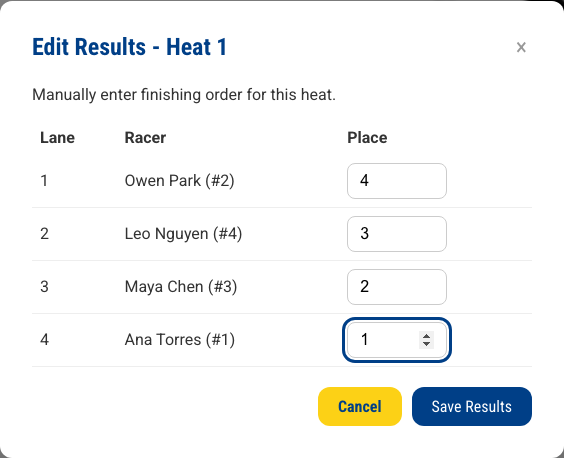
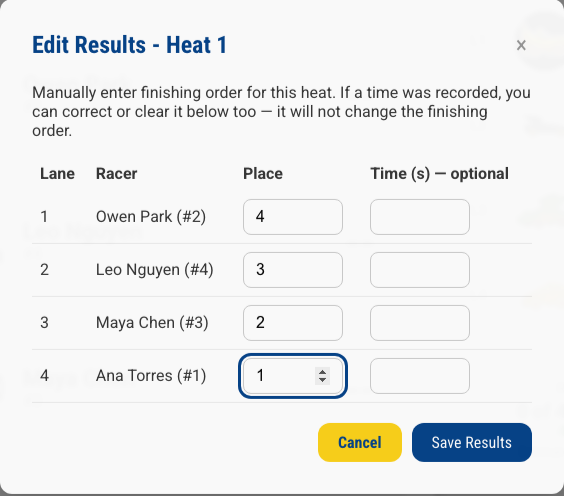
Let a Points race's Override/Edit modal correct a stored time too
Since #490, the Override/Edit modal picked its column from the race's
scoring strategy: POINTS got a Place column only. That is right for a
points race with no timer, but a points race on a track that does have
one still has a timer-recorded time behind every result — and nothing
in the app could reach it once the column disappeared. That time still
feeds the track record board, the record-break banner, the Stats page
and the lane cards, none of which asks how the race is scored, so a
spurious sensor misfire could become a standing track record with no
control able to fix it.

Show both columns instead, and let the strategy decide which is
required rather than which exists. A POINTS heat now shows Place (the
one that has to be filled in, unchanged) and an optional Time field
beside it for correcting or clearing a stored time.
`shouldDerivePlaces` already kept `assignPlaces` from ever touching a
POINTS heat's places, and that rule needed no change: it is what lets
the Time field sit there without a save turning it back into places.
Clearing Time to blank still stores null, which `services/records.py`
already excludes from the record board (`time_seconds > 0`), so that
is the correction path for a bad record.

Updated the manual-entry doc screenshot and its caption, and the
Playwright spec that produces it — it used to fill every spinbutton in
the modal (previously just the four Place ones), which now needs to
target the Place column specifically so Time stays blank as the
[…]

diff --git a/frontend/src/features/racing/components/RaceExecution.tsx b/frontend/src/features/racing/components/RaceExecution.tsx
@@ -907,16 +907,26 @@ export const RaceExecution: React.FC<RaceExecutionProps> = ({
                 title={`Edit Results - Heat ${activeExecutionHeat.globalHeatNumber ?? activeExecutionHeat.heatNumber}`}
             >
                 <div className="form-group">
-                    {/* Which column this shows follows the race's scoring
+                    {/* Which column is *required* follows the race's scoring
                         strategy (#490) rather than being a fourth thing for
                         the operator to decide: `TIMED` averages times, so
                         that is what gets typed in and turned into places on
-                        save (see `shouldDerivePlaces` in `lanes.ts`); `POINTS`
-                        sums places, so the finishing order is what somebody
-                        at the line actually has to report by hand. */}
+                        save (see `shouldDerivePlaces` in `lanes.ts`) — no
+                        Place column, since nothing is ever typed into one.
+                        `POINTS` sums places, so the finishing order is what
+                        somebody at the line actually has to report by hand —
+                        that stays the primary column. But a `POINTS` race can
+                        still have a timer (#525): it records a time nothing
+                        else in the app can correct once this modal hides the
+                        column, and that time still feeds the track record
+                        board, the record-break banner and the Stats page
+                        regardless of how the race scores. So a `POINTS` heat
+                        shows Time too — optional, for fixing or clearing a
+                        stored or spurious one — while `shouldDerivePlaces`
+                        keeps it from ever overwriting the hand-typed places. */}
                     <p className="form-help">
                         {isPointsStrategy
-                            ? 'Manually enter finishing order for this heat.'
+                            ? 'Manually enter finishing order for this heat. If a time was recorded, you can correct or clear it below too — it will not change the finishing order.'
                             : 'Manually update times for this heat.'}
                     </p>
                     <table style={{ width: '100%', borderCollapse: 'collapse', marginTop: '10px' }}>
@@ -924,7 +934,10 @@ export const RaceExecution: React.FC<RaceExecutionProps> = ({
                             <tr>
                                 <th style={{ textAlign: 'left', padding: '8px' }}>Lane</th>
                                 <th style={{ textAlign: 'left', padding: '8px' }}>Racer</th>
-                                <th style={{ textAlign: 'left', padding: '8px' }}>{isPointsStrategy ? 'Place' : 'Time (s)'}</th>
+                                {isPointsStrategy && <th style={{ textAlign: 'left', padding: '8px' }}>Place</th>}
+                                <th style={{ textAlign: 'left', padding: '8px' }}>
+                                    {isPointsStrategy ? 'Time (s) — optional' : 'Time (s)'}
+                                </th>
                             </tr>
                         </thead>
                         <tbody>
@@ -932,8 +945,8 @@ export const RaceExecution: React.FC<RaceExecutionProps> = ({
                                 <tr key={r.lane} style={{ borderBottom: '1px solid var(--divider-color)' }}>
                                     <td style={{ padding: '8px' }}>{r.lane}</td>
                                     <td style={{ padding: '8px' }}>{getRacerName(r.racerId ?? (r.placeholderSlot ? -r.placeholderSlot : 0), slowestRoundIds?.has(activeExecutionHeat.roundId))}</td>
-                                    <td style={{ padding: '8px' }}>
-                                        {isPointsStrategy ? (
+                                    {isPointsStrategy && (
+                                        <td style={{ padding: '8px' }}>
                                             <input
                                                 type="number"
                                                 step="1"
@@ -943,17 +956,18 @@ export const RaceExecution: React.FC<RaceExecutionProps> = ({
                                                 className="form-control"
                                                 style={{ width: '100px' }}
                                             />
-                                        ) : (
-                                            <input
-                                                type="number"
-                                                step="0.0001"
-                                                min="0"
-                                                value={r.timeText}
-                                                onChange={(e) => handleResultChange(idx, 'time', e.target.value)}
-                                                className="form-control"
-                                                style={{ width: '100px' }}
-                                            />
-                                        )}
+                                        </td>
+                                    )}
+                                    <td style={{ padding: '8px' }}>
+                                        <input
+                                            type="number"
+                                            step="0.0001"
+                                            min="0"
+                                            value={r.timeText}
+                                            onChange={(e) => handleResultChange(idx, 'time', e.target.value)}
+                                            className="form-control"
+                                            style={{ width: '100px' }}
+                                        />
                                     </td>
                                 </tr>
                             ))}

diff --git a/frontend/src/features/racing/components/RaceExecution.test.tsx b/frontend/src/features/racing/components/RaceExecution.test.tsx
@@ -181,8 +181,8 @@ describe('RaceExecution', () => {
         });
     });
 
-    describe('the Edit/Override modal follows the scoring strategy (#490)', () => {
-        it('shows a Time column for a TIMED race, and none for POINTS', () => {
+    describe('the Edit/Override modal follows the scoring strategy (#490, #525)', () => {
+        it('shows a Time column for a TIMED race, and no Place column', () => {
             render(<RaceExecution {...defaultProps} scoringStrategy="TIMED" />);
             fireEvent.click(screen.getByText('Edit'));
 
@@ -190,12 +190,67 @@ describe('RaceExecution', () => {
             expect(screen.queryByText('Place')).not.toBeInTheDocument();
         });
 
-        it('shows a Place column for a POINTS race, and no Time column', () => {
+        // #525: a POINTS race can still have a timer, and a stored or
+        // spurious time is otherwise uncorrectable and can stand as a track
+        // record forever. Both columns render; Place stays the one the
+        // operator has to fill in.
+        it('shows both a Place and an optional Time column for a POINTS race', () => {
             render(<RaceExecution {...defaultProps} scoringStrategy="POINTS" />);
             fireEvent.click(screen.getByText('Edit'));
 
             expect(screen.getByText('Place')).toBeInTheDocument();
-            expect(screen.queryByText('Time (s)')).not.toBeInTheDocument();
+            expect(screen.getByText('Time (s) — optional')).toBeInTheDocument();
+        });
+
+        it('seeds the Time field from the stored time on a POINTS heat, so it can be corrected', () => {
+            render(<RaceExecution {...defaultProps} scoringStrategy="POINTS" />);
+            fireEvent.click(screen.getByText('Edit'));
+
+            // mockHeat's lane 1 was stored with time: 3.5, place: 1.
+            const inputs = screen.getAllByRole('spinbutton');
+            expect(inputs[0]).toHaveValue(1); // Place
+            expect(inputs[1]).toHaveValue(3.5); // Time
+        });
+
+        it('clearing a POINTS heat\'s Time field sends null, leaving the hand-typed place untouched (#525)', async () => {
+            render(<RaceExecution {...defaultProps} scoringStrategy="POINTS" />);
+            fireEvent.click(screen.getByText('Edit'));
+
+            const inputs = screen.getAllByRole('spinbutton');
+            // inputs[0] is Place (lane 1), inputs[1] is Time (lane 1).
+            fireEvent.change(inputs[1], { target: { value: '' } });
+
+            fireEvent.click(screen.getByText('Save Results'));
+
+            await waitFor(() => {
+                expect(mockOnUpdateResult).toHaveBeenCalled();
+                const [, saved] = mockOnUpdateResult.mock.calls[0];
+                expect(saved[0].time).toBeNull();
+                // The place the timer recorded survives the correction —
+                // this is a time fix, not a re-placement.
+                expect(saved[0].place).toBe(1);
+            });
+        });
+
+        it('a hand-typed place survives a save alongside a present time (both-columns case, #525)', async () => {
+            render(<RaceExecution {...defaultProps} scoringStrategy="POINTS" />);
+            fireEvent.click(screen.getByText('Edit'));
+
+            const inputs = screen.getAllByRole('spinbutton');
+            // Correct the place by hand; leave the recorded time as-is.
+            fireEvent.change(inputs[0], { target: { value: '2' } });
+
+            fireEvent.click(screen.getByText('Save Results'));
+
+            await waitFor(() => {
+                expect(mockOnUpdateResult).toHaveBeenCalled();
+                const [, saved] = mockOnUpdateResult.mock.calls[0];
+                expect(saved[0].place).toBe(2);
+                // The stored time rides along unchanged — the point of #525
+                // is that this modal is still the only route to correct or
+                // clear it, not that saving a place should touch it.
+                expect(saved[0].time).toBe(3.5);
+            });
         });
 
         it('typing a place under POINTS writes it to the saved lane', async () => {

diff --git a/frontend/src/features/racing/lanes.test.ts b/frontend/src/features/racing/lanes.test.ts
@@ -230,4 +230,37 @@ describe('assignPlaces and shouldDerivePlaces together (#490)', () => {
     expect(saved.find((r) => r.lane === 2)?.place).toBe(1);
     expect(saved.find((r) => r.lane === 1)?.place).toBe(2);
   });
+
+  /**
+   * #525: the Edit/Override modal now shows a Time column for a POINTS race
+   * too, so a stored or spurious time can be corrected without going through
+   * the Place column. This is the "both columns" case the issue's suggested
+   * fix names — `shouldDerivePlaces` must still say `false` for `POINTS`,
+   * or a hand-typed finishing order sent alongside a present time would be
+   * overwritten by `assignPlaces` deriving places from that time instead.
+   */
+  it('a hand-typed place under POINTS survives even when a time is present (#525)', () => {
+    const results = [
+      input({ lane: 1, racerId: 1, time: 3.5, place: 2 }),
+      input({ lane: 2, racerId: 2, time: 3.6, place: 1 }),
+    ];
+    const saved = shouldDerivePlaces('POINTS') ? assignPlaces(results) : results;
+    // Unchanged: the hand-typed places, not what assignPlaces would derive
+    // from the times (which would rank lane 1 first, not lane 2).
+    expect(saved.find((r) => r.lane === 1)?.place).toBe(2);
+    expect(saved.find((r) => r.lane === 2)?.place).toBe(1);
+    expect(saved.find((r) => r.lane === 1)?.time).toBe(3.5);
+  });
+
+  it('clearing a POINTS heat\'s time to correct a spurious record leaves the place alone (#525)', () => {
+    const results = [
+      input({ lane: 1, racerId: 1, time: null, place: 3 }),
+      input({ lane: 2, racerId: 2, time: 0.412, place: 1 }), // a spurious sensor misfire
+    ];
+    // The operator clears lane 2's stored time to correct it.
+    const corrected = results.map((r) => (r.lane === 2 ? { ...r, time: null } : r));
+    const saved = shouldDerivePlaces('POINTS') ? assignPlaces(corrected) : corrected;
+    expect(saved.find((r) => r.lane === 2)?.time).toBeNull();
+    expect(saved.find((r) => r.lane === 2)?.place).toBe(1);
+  });
 });

diff --git a/frontend/src/features/racing/lanes.ts b/frontend/src/features/racing/lanes.ts
@@ -112,13 +112,16 @@ export const assignPlaces = (results: readonly LaneInput[]): LaneInput[] => {
  * Whether saving an official heat's edited results should run them through
  * {@link assignPlaces} (issue #490).
  *
- * Mirrors which column the Override/Edit modal shows: a `TIMED` race enters
- * times and always wants them turned into places — the rule `FreeRaceExecution`
- * already follows unconditionally, since free racing has no place column to
- * enter by hand. A `POINTS` race enters places directly, with no time to
- * derive them from — `assignPlaces` reads "no time anywhere" as "clear every
- * place", which is exactly backwards for a lane the operator just placed by
- * hand, so it must not run at all.
+ * Mirrors which column the Override/Edit modal requires: a `TIMED` race
+ * enters times and always wants them turned into places — the rule
+ * `FreeRaceExecution` already follows unconditionally, since free racing has
+ * no place column to enter by hand. A `POINTS` race enters places directly,
+ * with no time to derive them from — `assignPlaces` reads "no time anywhere"
+ * as "clear every place", which is exactly backwards for a lane the operator
+ * just placed by hand, so it must not run at all. The modal shows a Time
+ * column for a `POINTS` race too (#525), so a stored or spurious time stays
+ * correctable, but that column is optional there and must never drive
+ * derivation the way it does for `TIMED`.
  *
  * Deciding this from the strategy rather than from the edited lanes' own
  * shape (e.g. "times present and places absent") matters for a *correction*:

diff --git a/frontend/e2e/docs/screenshot-manual-entry.spec.ts b/frontend/e2e/docs/screenshot-manual-entry.spec.ts
@@ -71,16 +71,21 @@ test('screenshot the manual result-entry modal on a track with no timer', async 
     const modal = page.getByRole('dialog', { name: /Edit Results/ });
     await expect(modal).toBeVisible();
     await expect(modal.getByText('Place')).toBeVisible();
-    await expect(modal.getByText('Time (s)')).not.toBeVisible();
+    // #525: a Points race now shows a Time column too, so a stored or
+    // spurious time can be corrected from this same modal — it stays empty
+    // here since there is no timer on this track to have recorded one.
+    await expect(modal.getByText('Time (s) — optional')).toBeVisible();
 
     // The finishing order as somebody at the line would call it — filled in
     // lane order, which is not the field's car-number order, so the picture
     // shows the column doing its job rather than four lanes reading 1-2-3-4
-    // by coincidence.
-    const placeInputs = modal.getByRole('spinbutton');
-    const count = await placeInputs.count();
-    for (let i = 0; i < count; i++) {
-        await placeInputs.nth(i).fill(String(count - i));
+    // by coincidence. Only the Place spinbutton per row — #525 added a
+    // second, optional Time one beside it, and this picture is meant to show
+    // the no-timer case leaving Time exactly as blank as it is today.
+    const rows = modal.locator('tbody tr');
+    const rowCount = await rows.count();
+    for (let i = 0; i < rowCount; i++) {
+        await rows.nth(i).getByRole('spinbutton').first().fill(String(rowCount - i));
     }
 
     // 32: the modal itself, places entered and ready to save.

diff --git a/docs/race-day.md b/docs/race-day.md
@@ -376,13 +376,13 @@ When a heat finishes:
 
 - **Hardware timer**: Results appear automatically in the lane cards, showing each racer's finish time and placement.
 - **Fake timer**: Results appear when the run ends — either on its own a few seconds after **Start Timer**, or as soon as you click **Finish Heat**.
-- **Manual override**: Click **Override** (before the heat) or **Edit** (after) — or **Enter Results** on a track with no timer — to enter results by hand. What you type depends on how the race is scored: times for a Timed race, finishing order for a Points race (see [Scoring](reference/scoring.md#points)).
+- **Manual override**: Click **Override** (before the heat) or **Edit** (after) — or **Enter Results** on a track with no timer — to enter results by hand. A Timed race enters times, turned into places automatically on save. A Points race enters finishing order directly in a **Place** field; a **Time** field sits alongside it too, for correcting or clearing a time a timer recorded even though points scoring does not use it — the track's record board and stats still read it (see [Scoring](reference/scoring.md#points)).
 
 ![Heat Results After Finish](assets/screenshots/race-day/14-heat-results.png)
 _After a heat completes, each lane shows the racer's finish time and placement (1st, 2nd, 3rd, etc.). The 1st-place racer is highlighted in gold._
 
 ![The manual entry modal on a Points race](assets/screenshots/race-day/32-manual-place-entry-modal.png)
-_A Points race shows a **Place** column instead of a **Time** column — the finishing order somebody at the line called out, typed straight in._
+_A Points race's entry modal: the **Place** column is what gets typed in — the finishing order somebody at the line called out — and an optional **Time** column sits beside it for correcting or clearing a time a timer recorded._
 
 After reviewing results, click **Next Heat** to advance to the next heat — or enable **Auto-advance** to move forward automatically after 10 seconds.
 
